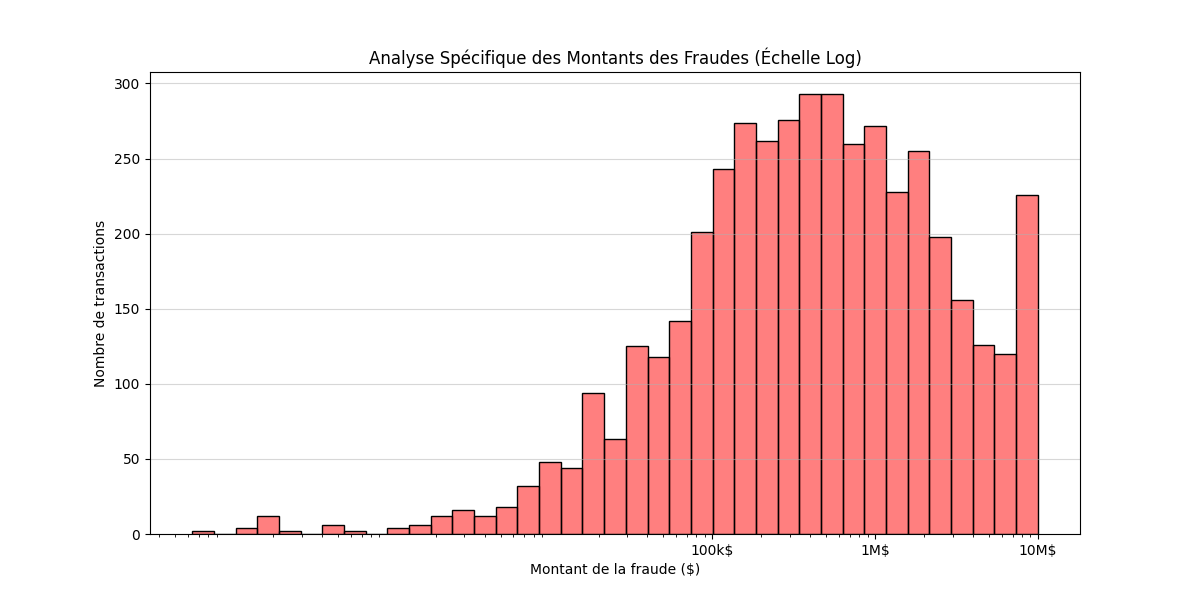
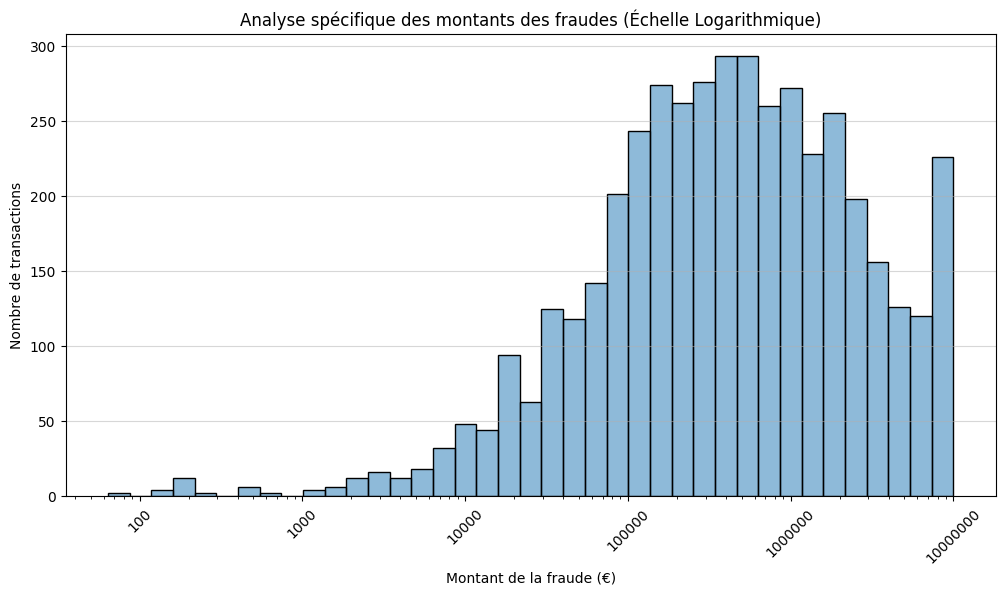
Eda streamlit

diff --git a/test_streamlit/presentation.py b/test_streamlit/presentation.py
@@ -74,90 +74,234 @@ def page_presentation ():
     st.title(title, text_alignment="center")
 
     #---------------création des onglets
-    onglet_projet, onglet_stack, onglet_eda, onglet_flux_de_donnees, onglet_equipe = st.tabs(["Le Projet", "La Stack", "L'Analyse (EDA)", "Flux de données", "L'Équipe",])
+    onglet_projet, onglet_stack, onglet_eda, onglet_flux_de_donnees, onglet_equipe = st.tabs(["Le projet", "La Stack", "L'analyse (EDA)", "Flux de données", "L'Équipe",])
     
     with onglet_projet:
         
-        (st.write(""))        
-        st.markdown("#### 🎯 <u>Ojectif</u> ", unsafe_allow_html=True)
-        st.markdown("##### Concevoir une application de détection de fraudes en temps réel à l'aide du modèle XGBoost à partir de données réelles fournies par une entreprise multinationale sur une période d’un mois. <br><br>", unsafe_allow_html=True)
+        (st.write(""))  
+        col1title, col2title, col3title = st.columns([4.5,6,1])
+        with col2title:
+            st.markdown("### <u> Vision Business & storytelling</u>", unsafe_allow_html=True)
+        (st.write(""))
         
-        st.markdown("#### 📊 <u>Dataset et Méthodologie</u>: PaySim (Kaggle)", unsafe_allow_html=True)
+        with st.expander("**Le constat : Une hémorragie financière**"): 
+            st.markdown("""
+            Imaginez une banque digitale en pleine expansion. Chaque jour, des milliers de clients effectuent des transactions cruciales depuis leur mobile. Cette ouverture numérique est devenue la cible privilégiée des réseaux criminels spécialisés dans le détournement de fonds. Pour notre institution, cette faille de sécurité se chiffrait par des pertes réelles de plusieurs centaines de millions d'euros par an.
+            """)
         
+        with st.expander("**La problématique : L'équilibre entre sécurité et fluidité**"):
+            st.markdown("""
+Le défi posé à notre équipe : stopper la fraude sans dégrader l'expérience utilisateur.
+
+* **Rapidité** : La décision (bloquer ou autoriser) doit être rendue en quelques millisecondes pour ne pas ralentir le client.
+* **Satisfaction Client** : Un "Faux Positif" (client honnête bloqué par erreur) est commercialement problématique et a un coût financier non négligeable.
+    """)
+            
+        with st.expander("**La solution : Une architecture innovante de détection en temps réel**"):
+            st.markdown("""
+Plutôt qu'un modèle statique, nous avons conçu une infrastructure évolutive.
+
+Grâce à notre pipeline MLOps, le système apprend en continu.
+Dès que de nouvelles typologies de fraude apparaissent, le modèle se réentraîne automatiquement pour s'adapter aux nouvelles menaces, garantissant une protection toujours à jour.""")
+            
+        with st.expander("**Les résultats : Une efficacité prouvée**"):
+            st.markdown("""
+* **Le Bouclier (Recall de 87 %)** : Nous interceptons désormais la grande majorité des tentatives de fraude.
+
+* **La fluidité client (Spécificité de 99,4 %)** : Nous garantissons une expérience sans problème. 99,4 % des transactions légitimes sont validées instantanément, minimisant ainsi le mécontentement client.
+
+* **L'efficacité des alertes (Précision de 63 %)** : Sur l'ensemble des transactions bloquées pour suspicion, près de 2 sur 3 sont réellement des fraudes. Ce score élevé permet aux équipes de sécurité de se concentrer sur des menaces hautement probables plutôt que de traiter un volume ingérable de fausses alertes.""")
+            
+        with st.expander('**Note sur la simulation de la "Vérité Terrain"**'):   
+            st.markdown("""Dans ce projet, les transactions envoyées vers BigQuery incluent la valeur réelle de fraude.
+
+Pourquoi ce choix ? Dans un environnement bancaire réel, il existe un décalage temporel : le modèle prédit une fraude à l'instant T, et la confirmation réelle (le "retour client" ou le signalement) arrive plus tard.
+
+Pour les besoins de la démonstration en temps réel et pour permettre au cycle d'auto-apprentissage (MLOps) de fonctionner de manière fluide, nous avons "compressé le temps". Nous simulons ce retour d'information instantanément afin de démontrer la capacité du pipeline à :
+
+* Détecter l'apparition de nouveaux patterns.
+
+* Déclencher un réentraînement automatique basé sur des données vérifiées.
+
+* Comparer immédiatement la prédiction du modèle avec la réalité pour calculer les métriques de performance.""")
+
+
+            
+        st.write("---")
+        
+        col1title, col2title, col3title = st.columns([5,6,1])
+        with col2title:
+            st.markdown("### <u>Dataset et méthodologie</u>", unsafe_allow_html=True)           
+        (st.write(""))
+        
+        st.markdown("##### <u> Aperçu du Dataset complet utilisé pour la détection de fraude :</u>", unsafe_allow_html=True)
+        (st.write(""))
         col1_dataset, col2_dataset, col3_dataset= st.columns(3)
         with col1_dataset:
-            metric_card("Dataframe de base", "6 353 307 rows", color="#d1ecf1")           
+            metric_card("Dataframe de base", "6 353 307 lignes", color="#d1ecf1")           
         with col2_dataset:
             metric_card("Fraudes identifiées", "8 213", color="#d4edda")
         with col3_dataset:
             metric_card("Taux de fraude", "0.13 %", color="#e0c5d6")
         
         (st.write(""))
-        st.markdown("##### 🛠 Séparation des données historiques pour l'entraînement et le flux temps réel (production)", unsafe_allow_html=True)
+        st.markdown("##### <u>Séparation des données historiques pour l'entraînement et le flux temps réel (production)</u> :", unsafe_allow_html=True)
+        (st.write(""))
+        with st.expander("**Détails de la séparation des datasets**"):
+            st.markdown("""
+Pour simuler un environnement de production réel, nous avons créé un script pour segmenter les données :
+
+* **90% (Historique)** : Utilisés pour l'entraînement initial et stockés comme base de référence.
+
+* **10% (Flux Stream)** : Isolés pour simuler l'envoi de transactions ligne par ligne.
+
+Cette méthode garantit que le modèle est testé sur des données qu'il n'a jamais rencontrées lors de sa phase d'apprentissage initiale.""")
+        (st.write(""))
                                 
         col1, col2, col3 = st.columns(3)
         with col1: 
-            metric_card("Dataframe d'entraînement", "5 726 358 rows", color="#d1ecf1")   
-            metric_card("Dataframe de production", "636 262 rows", color="#d1ecf1")         
+            metric_card("Dataframe d'entraînement", "5 726 358 lignes", color="#d1ecf1")   
+            metric_card("Dataframe de production", "636 262 lignes", color="#d1ecf1")         
         with col2:
             metric_card("Fraudes identifiées", "4 449", color="#d4edda")
             metric_card("Fraudes identifiées", "3 764", color="#d4edda")
         with col3:
             metric_card("Taux de fraude", "0.07 %", color="#e0c5d6")
             metric_card("Taux de fraude", "0.59 %", color="#e0c5d6")
+            
+        st.write("---")    
+#-------------------ONGLET STACK TECHNIQUE-------------------------
     
     with onglet_stack:
         
         (st.write(""))   
-        st.markdown("#### <u>Stack Technique</u>", unsafe_allow_html=True)
+        col1title, col2title, col3title = st.columns([5,6,1])
+        with col2title:
+            st.markdown("### <u>Stack Technique</u>", unsafe_allow_html=True)
         (st.write("")) 
         (st.write("")) 
     
         col1, col2, col3 = st.columns(3)        
         with col1:
-            st.image("fastapi.png", width=140)
-            st.markdown("##### *Chef d'orchestre*: Reçoit les flux et interroge le modèle pour prédire la fraude. Une fois la prédiction obtenue, l'API renvoie instantanément le verdict (Fraude ou Sain) au système avant d'envoyer les données vers notre buffer Redis")
-            st.image("grafana.png", width=180)
-            st.markdown("##### *Monitoring*: Plateforme de monitoring permettant de visualiser en temps réel la santé technique de l'infrastructure. Elle affiche les performances de l'API, l'utilisation des ressources système et l'état des flux de données.")
-            (st.write("")) 
-            (st.write("")) 
-            (st.write("")) 
-            (st.write(""))
-            st.image("XGBoost.png", width=180)
-            st.markdown("##### *Cerveau*:    C'est le Dashboard qui permet de visualiser les résultats en temps réel. Elle transforme nos données complexes en graphiques interactifs, en cartes et en indicateurs clés pour rendre la détection de fraude compréhensible par n'importe quel utilisateur.")
-            st.write(" ") # Petit espace verticalA
-        with col2:
-            st.image("redis.png", width=140)
-            st.markdown("##### *Buffer*: Stocke temporairement les données pour fluidifier le passage entre l'API et le Worker. Il fait office de file d'attente pour absorber les pics de charge. Cela garantit qu'aucune transaction n'est perdue, même en cas de fort trafic<br><br>", unsafe_allow_html=True)
-            st.image("prometheus.png", width=130)
-            st.markdown("##### *Métriques*: C'est la base de données qui collecte et stocke les mesures de performance (temps de réponse, CPU, RAM) envoyées par les différents services. Elle sert de source de données à Grafana pour transformer ces chiffres bruts en graphiques lisibles.")
+            with st.container(border=True):
+                marge_gauche, centre, marge_droite = st.columns([1.2, 2, 1])
+                with centre:
+                    st.image("fastapi.png", width=180)
+                st.markdown("**Communication** : Reçoit les flux et interroge le modèle pour prédire la fraude. Une fois la prédiction obtenue, l'API renvoie instantanément le verdict (Fraude ou Sain) au système avant d'envoyer les données vers notre buffer Redis")
+            with st.container(border=True):
+                marge_gauche, centre, marge_droite = st.columns([1.2, 2, 1])
+                with centre:
+                    st.image("grafana.png", width=180)
+                st.markdown("**Monitoring** : Plateforme de monitoring permettant de visualiser en temps réel la santé technique de l'infrastructure. Elle affiche les performances de l'API, l'utilisation des ressources système et l'état des flux de données.")
+            with st.container(border=True):
+                marge_gauche, centre, marge_droite = st.columns([1, 2, 1])
+                with centre:
+                    st.image("XGBoost.png", width=250)
+                    
+                st.markdown("""**Modèle de Machine Learning** : basé sur des arbres de décision boostés (Gradient Boosting). 
+    C'est lui qui analyse chaque transaction en une fraction de seconde pour calculer une probabilité de fraude. 
+    Il a été entraîné pour repérer des patterns complexes (comportements suspects) que des règles classiques ne verraient pas.
+    """)
+
+        with col2: 
+            with st.container(border=True):
+                marge_gauche, centre, marge_droite = st.columns([1.5, 2, 1])
+                with centre:
+                    st.image("redis.png", width=140)
+                st.markdown("**Redis** : Stocke temporairement les données pour fluidifier le passage entre l'API et le Worker. Il fait office de file d'attente pour absorber les pics de charge. Cela garantit qu'aucune transaction n'est perdue, même en cas de fort trafic")
+                
+            with st.container(border=True):
+                marge_gauche, centre, marge_droite = st.columns([1.5, 2, 1])
+                with centre:
+                    st.image("prometheus.png", width=160)
+                st.markdown("""**Le Collecteur de Métriques** : Il interroge (pull) régulièrement chaque service pour récupérer leurs constantes vitales (CPU, RAM, temps de latence). Il stocke ces données temporelles 
+    et sert de source de données exclusive à Grafana pour l'alerting et le monitoring.
+    """)
+            with st.container(border=True):
+                marge_gauche, centre, marge_droite = st.columns([0.5, 2, 0.5])
+                with centre:
+                    st.image("docker.png", width=800)
+                st.markdown("**Docker** : Conteneurisation des services pour garantir une exécution homogène de l'application dans tous les environnements (développement, staging, production).")
+
+            
 
         with col3:
-            st.image("bigquery.png", width=140)
-            st.markdown("##### *Cloud*: Archive l'historique des transactions et des prédictions dans le Cloud. Cet outil permet de réaliser des analyses statistiques à grande échelle.<br>", unsafe_allow_html=True)
-            st.image("streamlit.png", width=180)
-            st.markdown("##### *Vitrine*: Plateforme de monitoring permettant de visualiser en temps réel la santé technique de l'infrastructure. Elle affiche les performances de l'API, l'utilisation des ressources système et l'état des flux de données.")
+            with st.container(border=True):
+                marge_gauche, centre, marge_droite = st.columns([1, 2, 1])
+                with centre:
+                    st.image("bigquery.png", width=140)
+                st.markdown("""**Cloud** : Archive l'intégralité des transactions et des prédictions. 
+    C'est une étape cruciale pour le réentrainement du modèle : ces données historiques permettent 
+    de réentraîner XGBoost régulièrement pour qu'il s'adapte aux nouvelles méthodes de fraude.
+    """)
+            with st.container(border=True):
+                marge_gauche, centre, marge_droite = st.columns([1, 2, 1])
+                with centre:
+                    st.image("streamlit.png", width=180)
+                st.markdown("**Vitrine** : Plateforme de monitoring permettant de visualiser en temps réel la santé technique de l'infrastructure. Elle affiche les performances de l'API, l'utilisation des ressources système et l'état des flux de données.")
+
+            with st.container(border=True):
+                marge_gauche, centre, marge_droite = st.columns([1, 2, 1])
+                with centre:
+                    st.image("prefect.png", width=140)
+                st.markdown("""**Orchestration** : Automatise le réentraînement du modèle.""")
+    
+    st.write("---")
+    
+    
+# --------------------------- ONGLET EDA -----------------------------    
     
     with onglet_eda:
-        st.markdown("#### 📈 <u>Exploratory Data Analysis (EDA)</u><br>", unsafe_allow_html=True)
-        st.markdown("##### Voici un résumé des principales découvertes issues de notre analyse exploratoire des données (EDA) sur le dataframe de production :", unsafe_allow_html=True)
+        (st.write(""))   
+        col1title, col2title, col3title = st.columns([5,6,1])
+        with col2title:
+            st.markdown("### <u>Analyse exploratoire des données</u>", unsafe_allow_html=True)
+        (st.write(""))
+        st.markdown("Voici un résumé des principales découvertes issues de notre analyse exploratoire des données (EDA) sur le dataframe d'entrainement du modèle.")
         
         col1, col2 = st.columns(2)
         with col1:
-            st.image("bar_chart_types.png", width=1000)
-            st.markdown("##### 1. Répartition des Fraudes par Type de Transaction", unsafe_allow_html=True)
-            st.markdown("Les fraudes sont inégalement réparties selon le type de transaction. Les types 'TRANSFER' et 'CASH_OUT' représentent la majorité des fraudes détectées, suggérant que les fraudeurs privilégient ces méthodes pour leurs activités illicites.<br><br><br><br>", unsafe_allow_html=True)
-            st.image("histplot_heures.png", width=1000)
-            st.markdown("##### 3. Distribution des Fraudes par Heure de la Journée", unsafe_allow_html=True)
-            st.markdown("L'analyse horaire révèle que les fraudes n'ont pas de période spécifique dans la journée. Peut-être en raison de la nature automatisée des attaques, les fraudeurs opèrent à toute heure, rendant la détection basée sur le temps plus complexe.", unsafe_allow_html=True)
+            with st.container(border=True):
+                st.write("")
+                st.write("")
+                st.image("bar_chart_types.png", width=1000)
+                st.write("")
+                st.write("")
+                st.write("")
+                st.write(" ")
+                st.write("")
+                st.markdown("##### 1. Répartition des fraudes par type de transaction")
+                st.markdown("Les fraudes sont inégalement réparties selon le type de transaction. Les types 'TRANSFER' et 'CASH_OUT' représentent la majorité des fraudes détectées, suggérant que les fraudeurs privilégient ces méthodes pour leurs activités illicites.")
+                st.write("")
         with col2:      
-            st.image("pie_chart_fraude.png", width=800)
-            st.markdown("##### 2. Proportion de Transactions Frauduleuses", unsafe_allow_html=True)
-            st.markdown("Le graphique circulaire montre que les transactions frauduleuses sur les données de productionsconstituent une très faible proportion du total des transactions (0.59%).<br><br><br><br><br>", unsafe_allow_html=True)
-            st.image("histogramme_final.png", width=1000)
-            st.markdown("##### 4. Montant des fraudes", unsafe_allow_html=True)
-            st.markdown("L'histogramme des montants indique que la majorité des fraudes impliquent des montants relativement elevés.", unsafe_allow_html=True)
+            with st.container(border=True):
+                st.image("pie_chart_fraude.png", width=700)
+                st.markdown("##### 2. Proportion de transactions frauduleuses")
+                st.markdown("Le graphique circulaire montre que les transactions frauduleuses sur les données de productions constituent une très faible proportion du total des transactions (0.1%).")
+                st.write("")
+            
 
+        col1a, col2a = st.columns(2)
+        with col1a:
+            with st.container(border=True):
+                st.image("histplot_heures.png", width=1000)
+                st.write(" ")
+                st.write(" ")
+                st.markdown("##### 3. Distribution des fraudes par heure de la journée")
+                st.markdown("L'analyse horaire révèle que les fraudes n'ont pas de période spécifique dans la journée. Peut-être en raison de la nature automatisée des attaques, les fraudeurs opèrent à toute heure, rendant la détection basée sur le temps plus complexe.")
+                st.write(" ")
+                st.write(" ")
+        with col2a:
+            with st.container(border=True):
+                st.write(" ")
+                st.write(" ")
+                st.image("histogramme_final.png", width=705)
+                st.markdown("##### 4. Montants des fraudes par type de transaction")
+                st.markdown("""
+L'analyse de la distribution montre que la majorité des fraudes porte sur des montants significatifs, 
+avec un pic marqué entre **100 000 € et 1 000 000 €**. La présence d'une barre isolée à l'extrémité droite 
+suggère l'existence d'un **plafond transactionnel** fréquemment atteint par les fraudeurs.
+""")
 
 # 4. L'APPEL DE LA FONCTION (Le déclencheur)
 page_presentation()
